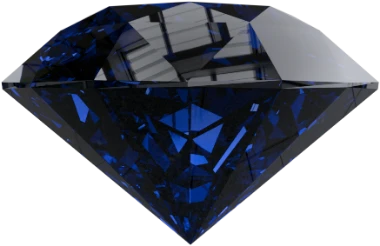
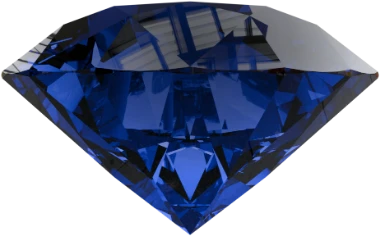
Clear gems to CREAM

diff --git a/aesthetics/cream/gems.gen.js b/aesthetics/cream/gems.gen.js
@@ -31,9 +31,9 @@
  * a plain colour, which every engine handles), averaged from that render's own most-saturated
  * pixels so the drop-shadow halo matches the rendered hue. Pasted into theme.css by hand.
  *
- * Chromium (a devDependency via Playwright) does the decode, resize, composite and PNG encode,
- * so this needs no image library. The `*-clear-diamond.png` set is deliberately left alone:
- * it's kept in the repo unused, for a future variant.
+ * Chromium (a devDependency via Playwright) does the decode, resize, composite and WebP encode,
+ * so this needs no image library. Source series is `SERIES` below — the other one stays in the
+ * repo unused.
  */
 
 const fs = require('fs');
@@ -47,6 +47,10 @@ const PAD = 2;
 
 const DIR = __dirname;
 const COLOURS = ['green', 'yellow', 'magenta', 'red', 'cyan', 'blue', 'white'];
+/** Which render series to build from. The `clear` stones are brighter and more saturated than
+ *  `twopiece` — twopiece read too dark on the dark pinstripe backdrop on mobile. The `twopiece`
+ *  PNGs stay in the repo unused, for a future variant. */
+const SERIES = 'clear';
 
 (async () => {
   const browser = await chromium.launch();
@@ -54,7 +58,7 @@ const COLOURS = ['green', 'yellow', 'magenta', 'red', 'cyan', 'blue', 'white'];
   await page.goto('about:blank');
 
   for (const colour of COLOURS) {
-    const src = path.join(DIR, `${colour}-twopiece-diamond.png`);
+    const src = path.join(DIR, `${colour}-${SERIES}-diamond.png`);
     if (!fs.existsSync(src)) throw new Error(`missing source render: ${src}`);
     const b64 = fs.readFileSync(src).toString('base64');
 
@@ -135,22 +139,26 @@ const COLOURS = ['green', 'yellow', 'magenta', 'red', 'cyan', 'blue', 'white'];
       sg.drawImage(img, cropX, cropY, cropW, cropH, 0, 0, outW, outH);
 
       // --- bake the crown scrim ---
-      // The table facet blows out to near-white right where the tile's icon + label land. Darken
-      // a soft ellipse over the upper-middle of the stone, clipped to the stone's own alpha
-      // (source-atop) so it never shows as a rectangle and never darkens the transparent
-      // surround. Tuned by eye against the 114px tile — see t-*.png from the dev screenshots.
+      // The `clear` renders blow out to near-white across the whole crown — the table facet AND
+      // the girdle line — which is exactly the band the tile's icon (upper crown) and label
+      // (lower crown / girdle) sit on. Darken a soft ellipse covering both, clipped to the
+      // stone's own alpha (source-atop) so it never shows as a rectangle and never touches the
+      // transparent surround. Centre is high (0.30) and the ellipse tall-ish so it reaches from
+      // the icon down past the label; the pavilion below stays at full brightness. Tuned by eye
+      // against the 114px tile.
       sg.save();
       sg.globalCompositeOperation = 'source-atop';
-      const cx = outW * 0.5, cy = outH * 0.4;
-      const grad = sg.createRadialGradient(cx, cy, 0, cx, cy, outW * 0.5);
-      grad.addColorStop(0, 'rgba(0,0,0,0.5)');
-      grad.addColorStop(0.55, 'rgba(0,0,0,0.26)');
+      const cx = outW * 0.5, cy = outH * 0.30;
+      const SQUASH = 0.72;
+      const grad = sg.createRadialGradient(cx, cy, 0, cx, cy, outW * 0.56);
+      grad.addColorStop(0, 'rgba(0,0,0,0.6)');
+      grad.addColorStop(0.5, 'rgba(0,0,0,0.34)');
       grad.addColorStop(0.82, 'rgba(0,0,0,0)');
       sg.fillStyle = grad;
       sg.save();
-      sg.scale(1, 0.62); // squash the circle into a wide ellipse over the crown
+      sg.scale(1, SQUASH); // squash the circle into a wide ellipse over the crown
       sg.beginPath();
-      sg.arc(cx, cy / 0.62, outW * 0.5, 0, Math.PI * 2);
+      sg.arc(cx, cy / SQUASH, outW * 0.56, 0, Math.PI * 2);
       sg.fill();
       sg.restore();
       sg.restore();

diff --git a/aesthetics/cream/theme.css b/aesthetics/cream/theme.css
@@ -248,10 +248,11 @@
    ::before that fills it — the same approach as Draconic's claw, and for the same reason:
    clip-path would take the border and shadow with it and squeeze the label.
 
-   Each stone is a Blender render (`<colour>-twopiece-diamond.png`, 1080x1080 RGBA) cropped to
-   its own alpha bounds, downscaled and scrim-baked to `gem-<colour>.webp` by gems.gen.js. Run
-   that script, never hand-edit the output. The `*-clear-diamond.png` series is kept in the repo
-   unused, for a future variant.
+   Each stone is a Blender render (`<colour>-clear-diamond.png`, 1080x1080 RGBA) cropped to its
+   own alpha bounds, downscaled and scrim-baked to `gem-<colour>.webp` by gems.gen.js. Run that
+   script, never hand-edit the output. Series is set by `SERIES` in the generator — the darker
+   `*-twopiece-diamond.png` set read too dim on the pinstripe backdrop on mobile and is kept in
+   the repo unused.
 
    THE URL GOES STRAIGHT IN THE RULE — no `--gem-img` custom property, and the crown scrim is
    baked into the image rather than a masked `::after`. Both started as a fix for a "blank on
@@ -327,12 +328,12 @@
    stone it always had. url() goes on ::before directly, not via a custom property. Every
    --gem-glow except white's is printed by gems.gen.js, averaged from that render's own
    most-saturated pixels — white has no hue to find, so it gets a neutral. */
-[data-aesthetic="cream"] .workout-grid > .home-tile:nth-child(1) { --gem-glow: rgba(82, 235, 59, 0.75); }
-[data-aesthetic="cream"] .workout-grid > .home-tile:nth-child(2) { --gem-glow: rgba(235, 227, 46, 0.75); }
-[data-aesthetic="cream"] .workout-grid > .home-tile:nth-child(3) { --gem-glow: rgba(220, 87, 235, 0.75); }
-[data-aesthetic="cream"] .workout-grid > .home-tile:nth-child(4) { --gem-glow: rgba(235, 65, 46, 0.75); }
-[data-aesthetic="cream"] .workout-grid > .home-tile:nth-child(5) { --gem-glow: rgba(56, 227, 235, 0.75); }
-[data-aesthetic="cream"] .workout-grid > .home-tile:nth-child(6) { --gem-glow: rgba(43, 99, 235, 0.75); }
+[data-aesthetic="cream"] .workout-grid > .home-tile:nth-child(1) { --gem-glow: rgba(77, 235, 48, 0.75); }
+[data-aesthetic="cream"] .workout-grid > .home-tile:nth-child(2) { --gem-glow: rgba(235, 222, 43, 0.75); }
+[data-aesthetic="cream"] .workout-grid > .home-tile:nth-child(3) { --gem-glow: rgba(232, 88, 235, 0.75); }
+[data-aesthetic="cream"] .workout-grid > .home-tile:nth-child(4) { --gem-glow: rgba(235, 73, 57, 0.75); }
+[data-aesthetic="cream"] .workout-grid > .home-tile:nth-child(5) { --gem-glow: rgba(65, 233, 235, 0.75); }
+[data-aesthetic="cream"] .workout-grid > .home-tile:nth-child(6) { --gem-glow: rgba(52, 103, 235, 0.75); }
 /* A seventh stone, in case the grid ever grows — the set is seven after all. */
 [data-aesthetic="cream"] .workout-grid > .home-tile:nth-child(7) { --gem-glow: rgba(240, 240, 248, 0.7); }
 [data-aesthetic="cream"] .workout-grid > .home-tile:nth-child(1)::before { background-image: url('gem-green.webp'); }

diff --git a/index.html b/index.html
@@ -7,7 +7,7 @@
      app.js re-fetches this page on launch + on foreground and reloads if this value moved —
      that's what lets an installed iOS PWA self-update instead of getting stuck on a snapshot.
      Format is just a sortable stamp; the value only has to differ from the last deploy. -->
-<meta name="app-build" content="2026.09.07-6">
+<meta name="app-build" content="2026.09.07-7">
 <link rel="manifest" href="manifest.json">
 <meta name="theme-color" content="#15171a">
 <meta name="apple-mobile-web-app-capable" content="yes">
